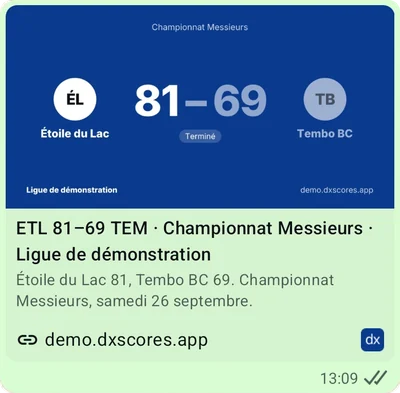
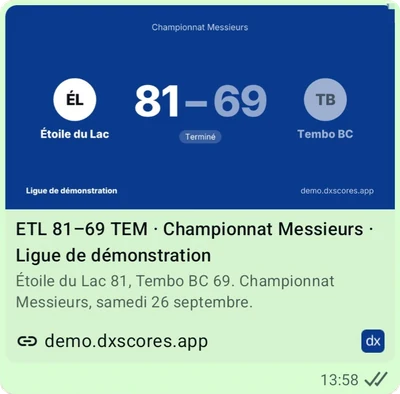
feat(landing): Fonctionnalités on the brand's wash, pictures in a halo, and « Ajouter un match »
The owner's review of 5A.2b: the grey box behind each picture looked bad, the section heading
should be centred, and every section was white or near-white, with no ground to make one stand out.
They asked whether the design system had planned for that, so nothing would be improvised. It had
not: §8.1 defined type steps and rhythm for the product site, and no grounds.

The design system gains them (app/globals.css, both themes, PHASE5A_PRODUCT_SITE §8.1). The brand
is one colour (the logo brief, §8.2), so a section stands out by that colour as a ground rather
than by a second hue:
  - `bg-wash` (#ebf1fb light, #111e31 dark): the navy as a pale band, for the one section that
    carries the product. Text keeps AA on it (ink-subtle 4.56:1 light, 4.82:1 dark).
  - `.halo`: a soft radial light of `--t-halo` behind a picture standing on a ground, in place of a
    box.
With canvas (default), surface (a quiet band) and accent (the call to act), that is four grounds,
each with one job. They are for the product site; in the app a tint still means "selected".

Fonctionnalités uses them. It sits on the wash, without borders, with its heading centred. Each
picture stands on the ground in a halo, which the section clips. The modules read « 01 —
Organisation », a figure and a rule, so they no longer look like the numbered squares of « Comment
ça marche ». The hero's top light uses the same wash instead of accent-soft at half opacity.
[…]

diff --git a/app/(public)/page.tsx b/app/(public)/page.tsx
@@ -3,7 +3,7 @@ import Link from 'next/link';
 import { ArrowRight, Check } from 'lucide-react';
 import { Button } from '@/components/ui/button';
 import { cn } from '@/utils/cn';
-import { DayPanelShot, StandingsShot, WhatsAppShots } from '@/components/marketing/module-visuals';
+import { AddGameShot, StandingsShot, WhatsAppShots } from '@/components/marketing/module-visuals';
 import { HeroScreens } from '@/components/marketing/hero-screens';
 import { VideoFacade } from '@/components/marketing/video-facade';
 import { ShowcaseLeagues, Testimonials } from '@/components/marketing/social-proof';
@@ -86,7 +86,7 @@ const modules = [
       'Un conflit de salle ou d’équipe est signalé avant qu’il n’arrive.',
       'Les étapes de la saison, des poules à la phase finale ; les reports, avec leur motif.',
     ],
-    Visual: DayPanelShot,
+    Visual: AddGameShot,
   },
   {
     label: 'Points',
@@ -164,7 +164,7 @@ export default function LandingPage() {
       <section className="relative overflow-hidden border-b border-line">
         <div
           aria-hidden
-          className="pointer-events-none absolute inset-0 bg-gradient-to-b from-accent-soft/50 via-canvas to-canvas"
+          className="pointer-events-none absolute inset-0 bg-gradient-to-b from-wash via-canvas to-canvas"
         />
         <div className={`${wrap} relative pt-16 text-center sm:pt-24`}>
           {/* Two sentences, two lines: the first says what the product is (management), the second
@@ -247,9 +247,11 @@ export default function LandingPage() {
       </section>
 
       {/* ---------- The three modules ---------- */}
-      <section id="fonctionnalites" className="scroll-mt-20 border-y border-line bg-surface">
+      {/* The page's one band in the brand's colour (`bg-wash`): the section that shows the product.
+          The pictures stand on it in a halo, with no box; `overflow-hidden` clips the halos. */}
+      <section id="fonctionnalites" className="scroll-mt-20 overflow-hidden bg-wash">
         <div className={`${wrap} py-16 sm:py-24`}>
-          <div className="reveal max-w-2xl">
+          <div className="reveal mx-auto max-w-2xl text-center">
             <p className="text-xs font-semibold uppercase tracking-wider text-accent-text">Fonctionnalités</p>
             <h2 className="mt-3 text-title font-bold text-ink">Trois modules, une seule saison.</h2>
             <p className="mt-4 text-lg leading-relaxed text-ink-muted">
@@ -268,24 +270,27 @@ export default function LandingPage() {
                 className="reveal grid gap-8 lg:grid-cols-2 lg:grid-rows-[1fr_auto_auto_1fr] lg:gap-x-16 lg:gap-y-0"
               >
                 <header className={cn('lg:row-start-2', i % 2 ? 'lg:col-start-2' : 'lg:col-start-1')}>
+                  {/* « 01 — Organisation »: a figure and a rule rather than a filled square, so the
+                      three modules do not read like the numbered steps further down. */}
                   <p className="flex items-center gap-3 text-xs font-semibold uppercase tracking-wider text-accent-text">
-                    <span className="flex h-7 w-7 items-center justify-center rounded-lg bg-accent text-sm tabular-nums text-accent-ink">
-                      {i + 1}
+                    <span aria-hidden className="text-sm tabular-nums">
+                      {String(i + 1).padStart(2, '0')}
                     </span>
+                    <span aria-hidden className="h-px w-8 bg-accent-line" />
                     {m.label}
                   </p>
                   <h3 className="mt-4 text-balance text-2xl font-bold text-ink sm:text-3xl">{fr(m.title)}</h3>
                   <p className="mt-3 max-w-xl text-lg leading-relaxed text-ink-muted">{fr(m.lead)}</p>
                 </header>
-                {/* A backdrop the width of the column, so the picture is the row's other half
-                    rather than a small card floating in white space. */}
                 <div
                   className={cn(
-                    'flex items-center justify-center rounded-2xl border border-line bg-canvas px-4 py-8 sm:px-10 sm:py-12 lg:row-span-4 lg:row-start-1',
+                    'flex items-center justify-center py-2 lg:row-span-4 lg:row-start-1 lg:py-6',
                     i % 2 ? 'lg:col-start-1' : 'lg:col-start-2',
                   )}
                 >
-                  <m.Visual />
+                  <div className="halo flex w-full justify-center">
+                    <m.Visual />
+                  </div>
                 </div>
                 <div className={cn('lg:row-start-3 lg:pt-6', i % 2 ? 'lg:col-start-2' : 'lg:col-start-1')}>
                   <ul className="space-y-3">

diff --git a/components/marketing/module-visuals.tsx b/components/marketing/module-visuals.tsx
@@ -2,29 +2,30 @@ import { PhoneScreen } from '@/components/marketing/phone-screen';
 
 /**
  * The three modules' pictures on the landing (PHASE5A_PRODUCT_SITE §6.5): captures of the demo
- * league, whose clubs and players are fictional (§3.4). Each is about a phone's width, so on a
- * phone it shows at its real size, and on a desktop it needs no more room than half a row.
+ * league, whose clubs and players are fictional (§3.4). They stand straight on the section's
+ * ground, each in a `.halo` placed by the page — no box around them.
  *
  * All below the fold, so they load lazily: the first screen costs nothing more. Plain <img> for
- * the reason given in hero-screens.tsx. The day panel and the standings are retaken by
- * scripts/capture-landing.mjs. The WhatsApp previews came from the owner's phone, cut to the
- * message bubbles: the chat around them was a real conversation with a real company.
+ * the reason given in hero-screens.tsx. The standings are retaken by scripts/capture-landing.mjs.
+ * The « Ajouter un match » dialog and the WhatsApp previews came from the owner's devices; the
+ * previews are cut to their message bubbles, leaving out the chat they were sent in.
  */
 
-/** Organisation: one day opened — its games grouped by hall, one hall's games back to back. */
-export function DayPanelShot() {
+/** Organisation: placing a game — its hall and hour, a result if it is already played, and the
+    day's other games right under it. */
+export function AddGameShot() {
   return (
     // eslint-disable-next-line @next/next/no-img-element -- see above
     <img
-      src="/landing/day-panel-702.webp"
-      srcSet="/landing/day-panel-351.webp 351w, /landing/day-panel-702.webp 702w"
-      sizes="(min-width: 440px) 351px, calc(100vw - 4.25rem)"
-      width={702}
-      height={818}
+      src="/landing/add-game-1020.webp"
+      srcSet="/landing/add-game-510.webp 510w, /landing/add-game-1020.webp 1020w"
+      sizes="(min-width: 512px) 480px, calc(100vw - 2rem)"
+      width={1020}
+      height={1386}
       loading="lazy"
       decoding="async"
-      alt="Une journée du calendrier dans DXScores : trois matchs répartis entre deux salles, ceux d’une même salle placés l’un après l’autre."
-      className="h-auto w-full max-w-[21.9375rem] rounded-xl border border-line shadow-e2"
+      alt="Le formulaire « Ajouter un match » : compétition, équipes, heure et salle, le score d’un match déjà joué, et les trois matchs déjà prévus ce jour-là."
+      className="h-auto w-full max-w-[30rem] rounded-xl border border-line shadow-e2"
     />
   );
 }
@@ -47,16 +48,16 @@ export function StandingsShot() {
 
 /** Publication: what a league's WhatsApp group sees when a link is shared — before opening it. */
 export function WhatsAppShots() {
-  const bubble = 'h-auto w-full max-w-[17rem] rounded-lg shadow-e1';
+  const bubble = 'h-auto w-full max-w-[17rem] rounded-lg shadow-e2';
   return (
-    <div className="flex w-full max-w-[20rem] flex-col gap-3">
+    <div className="flex w-full max-w-[19rem] flex-col gap-2">
       {/* eslint-disable-next-line @next/next/no-img-element -- see above */}
       <img
-        src="/landing/whatsapp-game-778.webp"
-        srcSet="/landing/whatsapp-game-400.webp 400w, /landing/whatsapp-game-778.webp 778w"
+        src="/landing/whatsapp-game-776.webp"
+        srcSet="/landing/whatsapp-game-400.webp 400w, /landing/whatsapp-game-776.webp 776w"
         sizes="272px"
-        width={778}
-        height={765}
+        width={776}
+        height={764}
         loading="lazy"
         decoding="async"
         alt="Le lien d’un match partagé sur WhatsApp : l’aperçu montre le score final, 81–69."
@@ -64,14 +65,14 @@ export function WhatsAppShots() {
       />
       {/* eslint-disable-next-line @next/next/no-img-element -- see above */}
       <img
-        src="/landing/whatsapp-standings-778.webp"
-        srcSet="/landing/whatsapp-standings-400.webp 400w, /landing/whatsapp-standings-778.webp 778w"
+        src="/landing/whatsapp-standings-777.webp"
+        srcSet="/landing/whatsapp-standings-400.webp 400w, /landing/whatsapp-standings-777.webp 777w"
         sizes="272px"
-        width={778}
-        height={805}
+        width={777}
+        height={764}
         loading="lazy"
         decoding="async"
-        alt="Le lien du classement partagé sur WhatsApp : l’aperçu montre le tableau du championnat."
+        alt="Le lien du classement partagé sur WhatsApp : l’aperçu montre le haut du tableau du championnat."
         className={`${bubble} self-end`}
       />
     </div>

diff --git a/app/globals.css b/app/globals.css
@@ -147,6 +147,15 @@
   --t-accent-soft:   #e6edf9;   /* selected rows, active nav, subtle tints */
   --t-accent-line:   #aec6ea;
 
+  /* Grounds for the product site (dxscores.com; PHASE5A_PRODUCT_SITE §8.1). The brand has one
+     colour, and these are that colour as a ground, so a section can stand out without a second hue.
+     Not for the app, where a tint means "selected". Text tokens keep AA on the wash in both themes
+     (ink-subtle 4.56:1 here, 4.82:1 dark).
+       wash — the one band that carries the product (Fonctionnalités) and the hero's top light
+       halo — the light behind a picture standing on a ground (`.halo`), in place of a box */
+  --t-wash:          #ebf1fb;
+  --t-halo:          #c6d6f0;
+
   /* Semantic. A colour appears only when it means something:
      a win, a loss, something that needs attention. */
   --t-positive:      #15803d;
@@ -247,6 +256,9 @@
     --t-accent-soft:   #15263c;
     --t-accent-line:   #2c4a72;
 
+    --t-wash:          #111e31;
+    --t-halo:          #1d3459;
+
     --t-positive:      #5cc98d;
     --t-positive-soft: #10281c;
     --t-negative:      #f08a8a;
@@ -292,6 +304,9 @@
   --t-accent-soft:   #15263c;
   --t-accent-line:   #2c4a72;
 
+  --t-wash:          #111e31;
+  --t-halo:          #1d3459;
+
   --t-positive:      #5cc98d;
   --t-positive-soft: #10281c;
   --t-negative:      #f08a8a;
@@ -325,6 +340,8 @@
   --color-accent-text:  var(--t-accent-text);
   --color-accent-soft:  var(--t-accent-soft);
   --color-accent-line:  var(--t-accent-line);
+
+  --color-wash:         var(--t-wash);
 
   --color-positive:      var(--t-positive);
   --color-positive-soft: var(--t-positive-soft);
@@ -535,6 +552,22 @@ select:-webkit-autofill {
 }
 @media (prefers-reduced-motion: reduce) {
   .link-grow { transition: none; }
+}
+
+/* A soft light behind a picture that stands on a ground: depth without a box (PHASE5A §8.1). The
+   picture keeps its own edge and shadow; the halo only says "this is the thing to look at". It
+   reaches past its element, so the section that holds it clips (`overflow-hidden`). */
+.halo {
+  position: relative;
+  isolation: isolate;
+}
+.halo::before {
+  content: '';
+  position: absolute;
+  inset: -12% -16%;
+  z-index: -1;
+  background: radial-gradient(closest-side, var(--t-halo), transparent);
+  pointer-events: none;
 }
 
 /* Fade-in animation for flyouts */

diff --git a/docs/PHASE5A_PRODUCT_SITE.md b/docs/PHASE5A_PRODUCT_SITE.md
@@ -480,6 +480,19 @@ only when it means something. What marketing adds is small:
   3.75rem)`, tight leading, `-0.02em` tracking) and `--text-title` (≈ `clamp(1.5rem, 3vw, 2.25rem)`).
 - **Section rhythm:** one `marketing-section` utility (`py-16 sm:py-24`) and one container width
   (`max-w-6xl px-4 sm:px-6`).
+- **Grounds** (added 2026-10-01, after the owner noted every section was white or near-white). The
+  brand has one colour (§8.2), so a section stands out by that colour as a ground, not by a second
+  hue. Four grounds, each with a job, both themes defined in `globals.css`:
+  - `bg-canvas`: the default.
+  - `bg-surface`: a quiet band (the founder's word).
+  - `bg-wash` (new): the brand navy as a pale ground, for the **one** section that carries the
+    product (Fonctionnalités), and the hero's top light. Text tokens keep AA on it (ink-subtle
+    4.56:1 light, 4.82:1 dark).
+  - `bg-accent`: the call to act (the final CTA band).
+
+  Pictures stand straight on their ground in a `.halo` (a soft light of `--t-halo` behind them),
+  never in a bordered box. A section with halos clips them (`overflow-hidden`). Not for the app,
+  where a tint means "selected".
 - **Motion, CSS only:**
   - Hover: buttons and cards move `-1px` and go from `shadow-e1` to `shadow-e2`, and `border-line`
     becomes `border-line-strong`, over 150–200 ms.
@@ -679,6 +692,14 @@ owner on 2026-09-29. Deviations from the list below:
   picture, then points. `scripts/capture-landing.mjs` retakes the day panel and the standings
   from production (read-only; it needs `playwright-core`, installed with `--no-save`). Three
   points per module instead of four or five.
+  *Then, on the owner's review (same day):* Organisation shows the « Ajouter un match » dialog,
+  filled in (the owner's capture): a game placed with its hall, hour and score, and « Déjà ce
+  jour-là » listing the day's other games. The day panel it replaces was a list; the dialog is the
+  gesture itself. The WhatsApp bubbles come from a second capture, both Championnat Messieurs. The
+  grey box behind each picture is gone: the section is the `bg-wash` band, its heading centred,
+  each picture in a `.halo`, and the modules are labelled « 01 — Organisation » rather than with
+  filled squares, which belong to « Comment ça marche ». `capture-landing.mjs` now retakes only the
+  standings, which are public, so it no longer signs in.
 - **The demo league is partial on production** (8 men's teams, 56 games, 11 results). The *Voir la
   démo* link stays hidden (`site.demoUrl: null`) until `scripts/seed-demo-league.mjs` (backend) has
   finished it. The script is resumable and needs the demo account's password.
